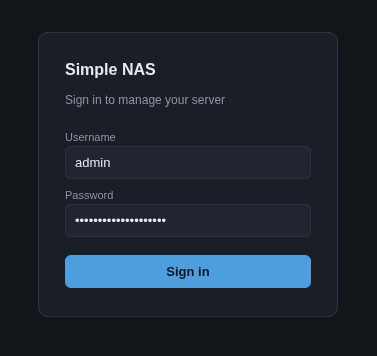
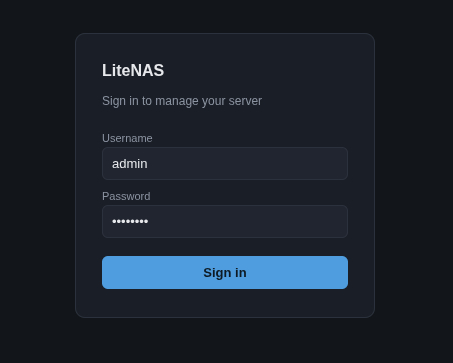
Changed project name

diff --git a/login.html b/login.html
@@ -3,7 +3,7 @@
 <head>
 <meta charset="UTF-8">
 <meta name="viewport" content="width=device-width, initial-scale=1.0">
-<title>Simple NAS — sign in</title>
+<title>LiteNAS — sign in</title>
 <style>
   :root {
     --bg: #12151a;
@@ -75,7 +75,7 @@
 </head>
 <body>
 <form method="POST" action="/login">
-  <h1>Simple NAS</h1>
+  <h1>LiteNAS</h1>
   <p class="sub">Sign in to manage your server</p>
   <div id="error"></div>
   <div>

diff --git a/Panel.html b/Panel.html
@@ -3,7 +3,7 @@
 <head>
 <meta charset="UTF-8">
 <meta name="viewport" content="width=device-width, initial-scale=1.0">
-<title>Simple NAS — panel</title>
+<title>LiteNAS — panel</title>
 <style>
   :root {
     --bg: #12151a;
@@ -157,7 +157,7 @@
 <body>
 <div class="wrap">
   <header>
-    <h1>Simple NAS - control panel</h1>
+    <h1>LiteNAS - control panel</h1>
   </header>
 
   <div class="grid">

diff --git a/README.md b/README.md
@@ -1,10 +1,10 @@
-# Simple NAS
+# LiteNAS
 
-Simple lightweight NAS file server based on Samba running inside a Docker container. Works on any system capable of running Docker
+Turn any Docker-capable machine into your own simple home file server. LiteNAS lets you share folders over your local network using SMB/Samba and manage your server through a lightweight web interface.
 
-The container uses the `dperson/samba` image and exposes selected host directories as network shares.
+Instead of installing a complete NAS operating system just to share a few drives or folders, you can run LiteNAS alongside the rest of your services and keep your setup under your control.
 
-There is available web configuration:
+LiteNAS keeps things focused on what you actually need: file sharing, a small web configuration panel, and Docker-based deployment.
 
 ---
 
@@ -42,17 +42,17 @@ There is available web configuration:
 
 Clone the repository:  
 ```bash
-git clone https://github.com/aasiop/simple-nas.git
+git clone https://github.com/aasiop/LiteNAS.git
 ```
 
 Enter repository:  
 ```bash
-cd simple-nas
+cd LiteNAS
 ```
 
 Run the setup script. It will interactively ask for the server name, host directory and website administrator credentials, then generate the .env and smb.conf files automatically.  
 ```bash
-./setup.sh
+sh setup.sh
 ```
 
 Start the container:
@@ -69,7 +69,7 @@ After starting the container, open the web configuration panel to configure user
 
 ---
 
-### Security!
+## Security
 - Do not expose port 8000 directly to the Internet.
 - Do not expose SMB/445 to the Internet.
 - Use the web panel only inside a trusted network or behind a properly configured reverse proxy/VPN.
@@ -160,8 +160,6 @@ GROUP_ID=1000
 SECRET_KEY=REPLACE_ME_generate_with_secrets
 ADMIN_USER=admin
 ADMIN_PASSWORD_HASH=REPLACE_ME_generate_with_werkzeug
-
-...
 ```
 
 | Variable              | Description                          |
